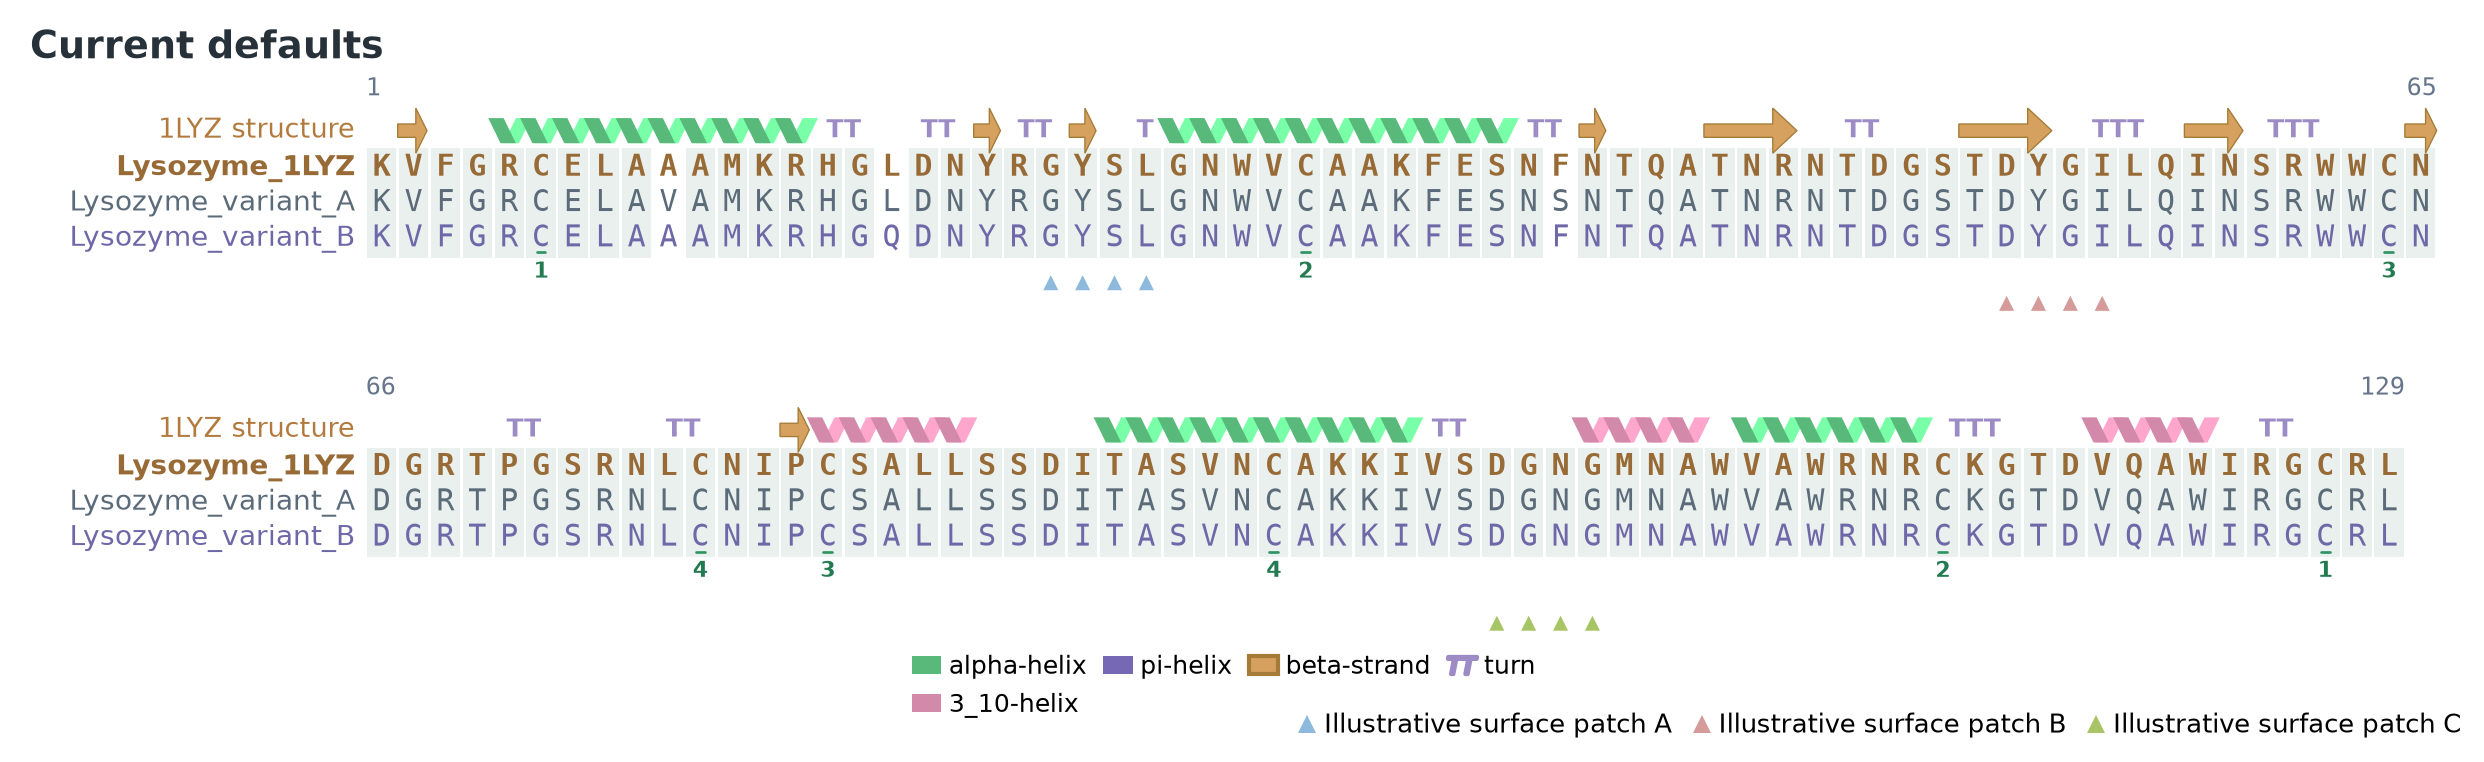
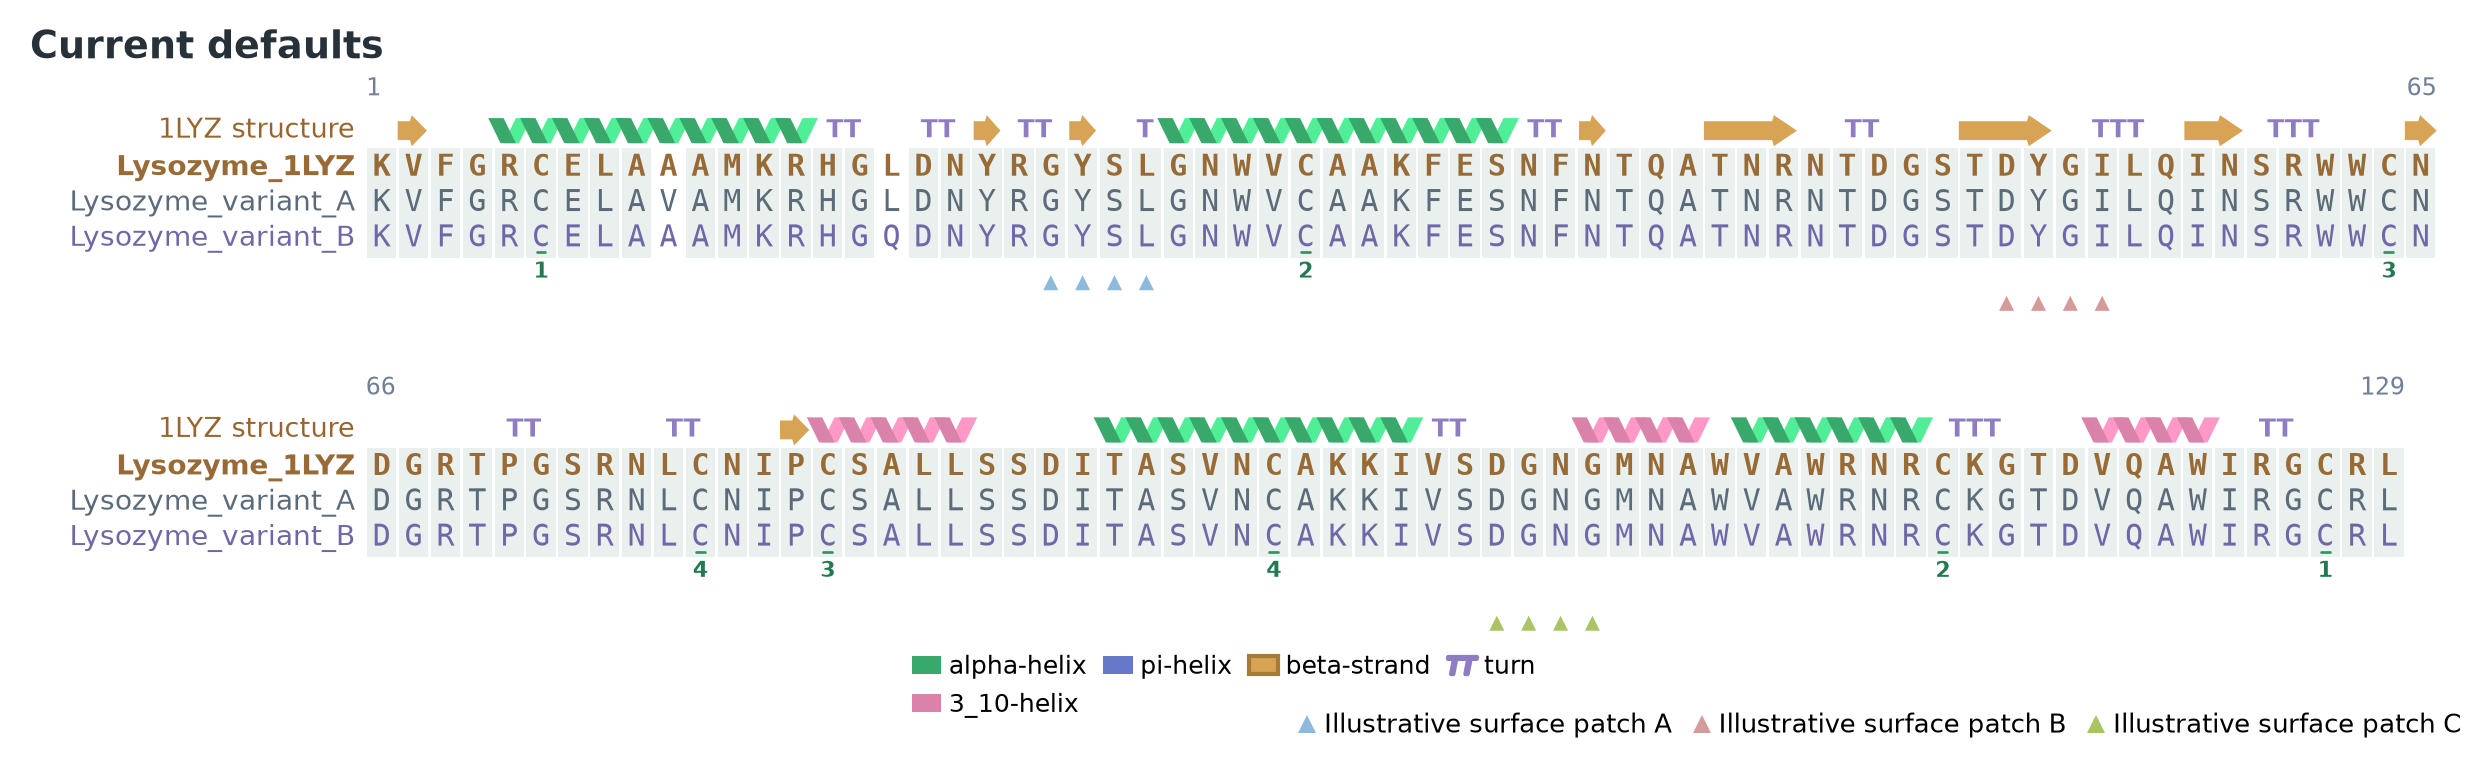
Release 0.2.0 with modern beta arrows

diff --git a/pyplogo/visualizers/secondary_structure.py b/pyplogo/visualizers/secondary_structure.py
@@ -40,9 +40,9 @@ class SecondaryStructureVisualizer:
                  parallelogram_width=15,
                  helix_unit_height=8.5,
                  helix_skew=12,
-                 beta_body_width_ratio=0.3,
-                 beta_head_width_ratio=0.55,
-                 beta_head_length_ratio=1.0,
+                 beta_body_width_ratio=0.28,
+                 beta_head_width_ratio=0.42,
+                 beta_head_length_ratio=0.58,
                  aa_font_size=15,
                  aa_font_family='Times New Roman',
                  # 新增比例控制参数
@@ -797,16 +797,19 @@ class SecondaryStructureVisualizer:
                         ax.add_patch(patch)
             elif code == 'E':
                 width = right - left
-                body = 0.034
+                body = 0.048
                 if terminal:
-                    # Keep a prominent arrowhead inside this beta segment so
-                    # neighboring structure elements remain unobscured.
-                    head = min(1.25, max(0.35, width * 0.26), width * 0.42)
-                    head_half = min(0.115, max(0.085, width * 0.16))
+                    # Compact flat-ribbon arrow. Short segments get a larger
+                    # head so a one-column strand still reads as an arrow;
+                    # long segments stay capped and publication-compact.
+                    head = min(0.78, max(0.30, width * 0.58), width * 0.70)
+                    head_half = min(0.095, max(0.078, body * 1.65))
+                    shoulder = min(head * 0.18, 0.055)
                     points = [
                         (left, y - body), (right - head, y - body),
-                        (right - head, y - head_half), (right, y),
-                        (right - head, y + head_half), (right - head, y + body),
+                        (right - head + shoulder, y - head_half), (right, y),
+                        (right - head + shoulder, y + head_half),
+                        (right - head, y + body),
                         (left, y + body),
                     ]
                 else:
@@ -817,8 +820,8 @@ class SecondaryStructureVisualizer:
                         (right, y + body), (left, y + body),
                     ]
                 ax.add_patch(patches.Polygon(
-                    points, closed=True, facecolor=color, edgecolor='#A47B37',
-                    linewidth=0.32, joinstyle='miter', zorder=3
+                    points, closed=True, facecolor=color, edgecolor='none',
+                    linewidth=0, joinstyle='round', zorder=3
                 ))
             elif code == 'T':
                 turn_label = 'T' * min(3, end - start + 1)
@@ -1723,10 +1726,11 @@ class SecondaryStructureVisualizer:
         ]
         
         if is_last and head_length > 0:
+            shoulder = min(head_length * 0.42, self.aa_spacing * 0.09)
             vertices.extend([
-                (body_right_x, arrow_lower_y),
+                (body_right_x + shoulder, arrow_lower_y),
                 (arrow_tip_x, y_pos),
-                (body_right_x, arrow_upper_y),
+                (body_right_x + shoulder, arrow_upper_y),
             ])
         
         vertices.extend([
@@ -1740,7 +1744,8 @@ class SecondaryStructureVisualizer:
         
         arrow_patch = patches.PathPatch(
             arrow_path, facecolor=self.colors['E'],
-            edgecolor=self.colors['edge'], alpha=0.95, linewidth=0.8, zorder=3
+            edgecolor='none', alpha=0.96, linewidth=0, zorder=3,
+            joinstyle='round'
         )
         ax.add_patch(arrow_patch)
     

diff --git a/pyplogo/__init__.py b/pyplogo/__init__.py
@@ -4,7 +4,7 @@ A Python package for extracting and visualizing protein secondary structures
 from PDB/CIF files using DSSP with publication-quality output.
 """
 
-__version__ = "0.1.7"
+__version__ = "0.2.0"
 __author__ = "Your Name"
 __email__ = "your.email@example.com"
 
